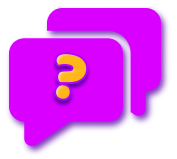
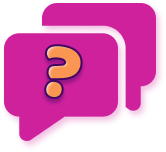
applying new color scheme

diff --git a/src/components/ui/Buttons.js b/src/components/ui/Buttons.js
@@ -5,27 +5,27 @@ export const PrimaryBtn = ({ txt, event }) => {
         <>
             <ButtonBase
                 txt={txt}
-                bg="dark.500"
-                color="gray.800"
-                hover={{ bg: "light.500", color: "gray.800" }}
+                bg="main.900"
+                color="second.100"
+                hover={{ bg: "main.900", color: "main.500" }}
                 event={event}
             />
         </>
     )
 }
 
-export const PrimaryOutlineBtn = ({ txt, event}) => {
+export const PrimaryOutlineBtn = ({ txt, event }) => {
     return (
         <>
             <ButtonBase
                 txt={txt}
-                color="dark.500"
+                color="main.500"
                 bg="gray.800"
-                hover={{ bg: "dark.500", color: "gray.800" }}
-                custom={{ border: `2px solid` }} 
+                hover={{ bg: "main.500", color: "second.100", border: "none" }}
+                custom={{ border: `2px solid` }}
                 event={event}
-                />
-                
+            />
+
 
         </>
     )
@@ -38,9 +38,9 @@ export const SecondaryBtn = ({ txt, event }) => {
                 txt={txt}
                 bg="light.500"
                 color="gray.800"
-                hover={{ bg: "light.900", color: "gray.800" }} 
+                hover={{ bg: "light.900", color: "gray.800" }}
                 event={event}
-                />
+            />
         </>
     )
 }
@@ -53,9 +53,9 @@ export const SecondaryOutlineBtn = ({ txt, event }) => {
                 color="light.500"
                 bg="gray.800"
                 hover={{ bg: "light.500", color: "gray.800" }}
-                custom={{ border: `2px solid` }} 
+                custom={{ border: `2px solid` }}
                 event={event}
-                />
+            />
 
         </>
     )

diff --git a/src/components/ui/ButtonBase.js b/src/components/ui/ButtonBase.js
@@ -1,15 +1,15 @@
 import React from 'react'
 import { Button } from '@chakra-ui/react'
-function Buttons({ txt, color, bg, hover, custom, event}) {
+function Buttons({ txt, color, bg, hover, custom, event }) {
     return (
         <Button
+            style={custom}
             borderRadius="sm"
             type="submit"
-            bgColor={!bg ? "dark.500" : bg}
+            bgColor={!bg ? "main.500" : bg}
             fontSize="sm"
-            color={!color ? 'dark.500' : color}
+            color={!color ? 'main.500' : color}
             _hover={hover}
-            style={custom}
             fontWeight="medium"
             letterSpacing="2px"
             textTransform="uppercase"

diff --git a/src/pages/home/Dashboard.js b/src/pages/home/Dashboard.js
@@ -70,7 +70,7 @@ function Dashboard() {
                 justifyContent="center"
                 alignItems="center"
                 flexDir="column"
-                bgGradient='linear(to-l, #7928CA, #FF0080)'
+                bgGradient='linear(to-b, main.900, main.500, accent)'
                 overflow="hidden"
                 _before={{
                     content: '" "',
@@ -90,7 +90,7 @@ function Dashboard() {
                 <Flex
                     w={["xs", "sm"]}
                     h="sm"
-                    bg="gray.800"
+                    bg="dark.500"
                     boxShadow="lg"
                     rounded="md"
                     p={[4, 5]}

diff --git a/src/theme/index.js b/src/theme/index.js
@@ -3,17 +3,23 @@ import { Global } from '@emotion/react';
 
 const theme = extendTheme({
   colors: {
-    dark: {
-      500: "#8A00FF",
-      900:  "#6700FF"
+    main: {
+      100: "#B251AF",
+      500: "#CE219B",
+      900: "#410563"
     },
-    mid: "#B700FF",
-    light: {
-      500: "#DA00FF",
-      900: "#F500FF"
-    }
+    second: {
+      100: "#BDB0CC",
+      900: "#413060",
+    },
+    dark: {
+      100: "#3F0463",
+      500: "#270B39",
+      900: "#160238"
+    },
+    accent: "#FA9552"
   },
-  fonts:{
+  fonts: {
     body: `Poppins, ${base.fonts?.body}`
   },
   components: {

diff --git a/src/components/Forms/FormInput.js b/src/components/Forms/FormInput.js
@@ -22,7 +22,7 @@ function FormInput({ placeholder, state, type, children}) {
                         }
                         }
                         focusBorderColor="dark.900"
-                        borderColor="light.500"
+                        borderColor="gray.600"
                         color="gray.400"
                         fontWeight="light"
                         letterSpacing="1px"

diff --git a/src/pages/messages/Message.js b/src/pages/messages/Message.js
@@ -37,7 +37,7 @@ function Message() {
                 justifyContent="center"
                 alignItems="start"
                 p={[4, 8]}
-                bgGradient='linear(to-l, #7928CA, #FF0080)'
+                bgGradient='linear(to-b, main.900, main.500, accent)'
                 _before={{
                     content: '" "',
                     bgImage: `"${logo}"`,

diff --git a/src/pages/login/Login.js b/src/pages/login/Login.js
@@ -23,7 +23,7 @@ function Login() {
                 alignItems="center"
                 justifyContent="center"
                 flexDir="column"
-                bgGradient='linear(to-l, #7928CA, #FF0080)'
+                bgGradient='linear(to-b, main.900, main.500)'
             >
                 <Center py={6} mx={[3, 4]}>
                     {/* FORMS CARD */}

diff --git a/src/components/Navbar.js b/src/components/Navbar.js
@@ -29,7 +29,7 @@ export default function Nav() {
   }
   return (
     <>
-      <Box bg="gray.800" px={4} zIndex="sticky">
+      <Box bg="main.900" px={4} zIndex="sticky">
         <Flex h={16} alignItems={'center'} justifyContent={'space-between'}>
           <Box w="10rem">
             <Link to="/dashboard">
